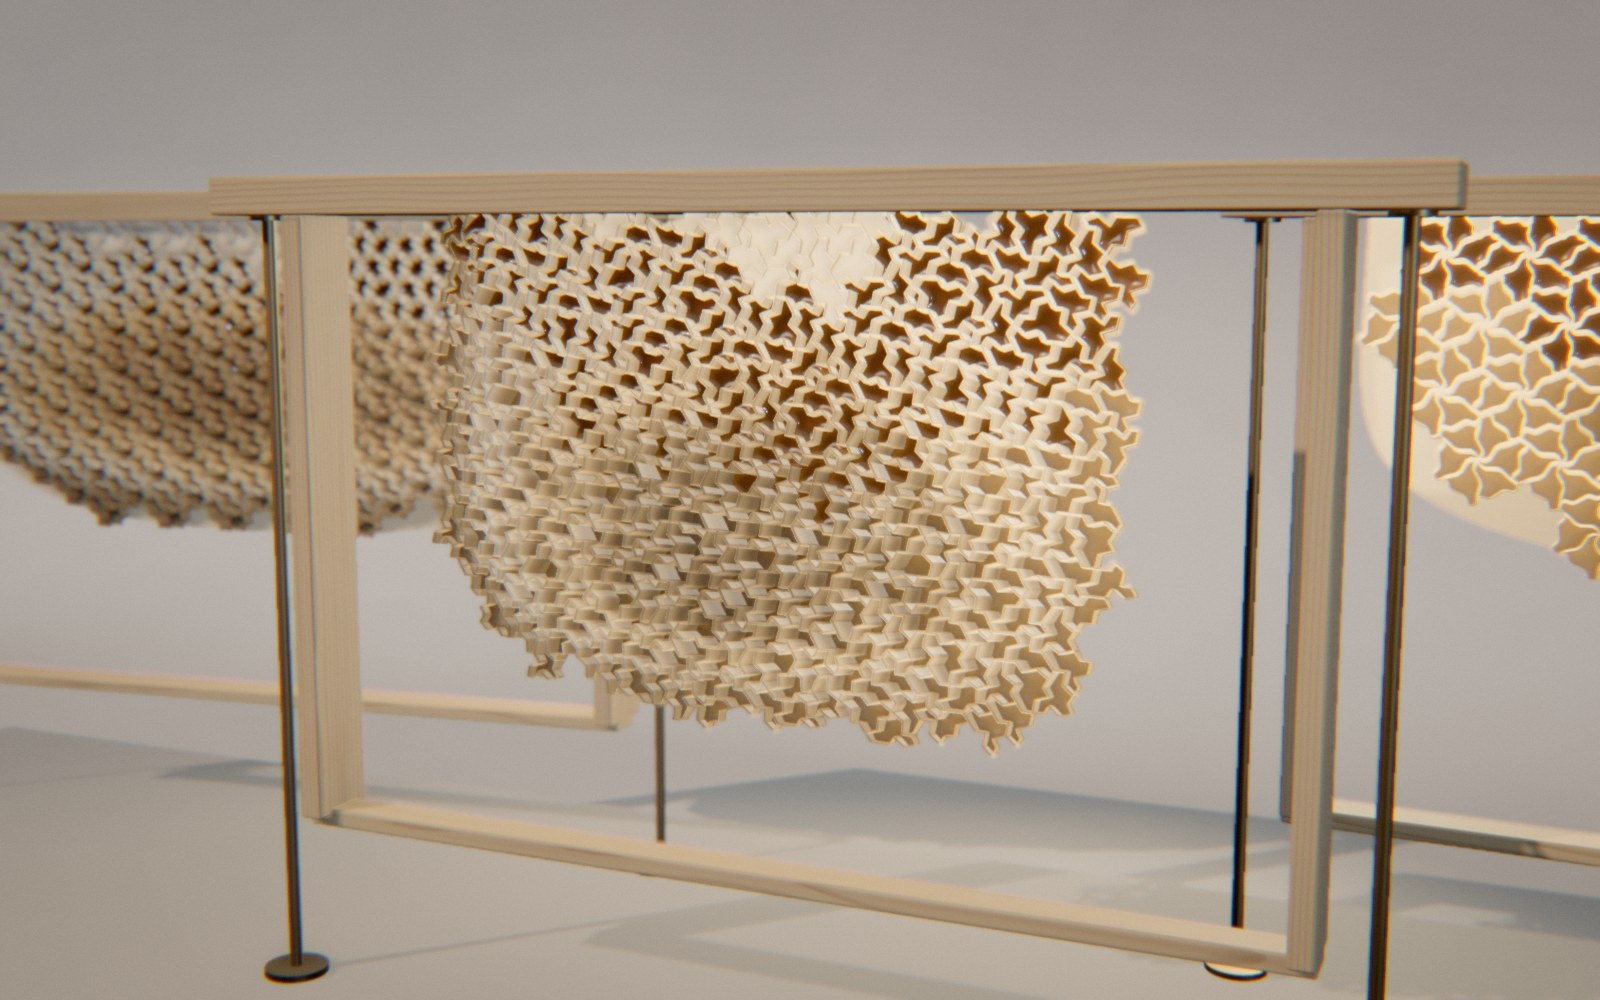
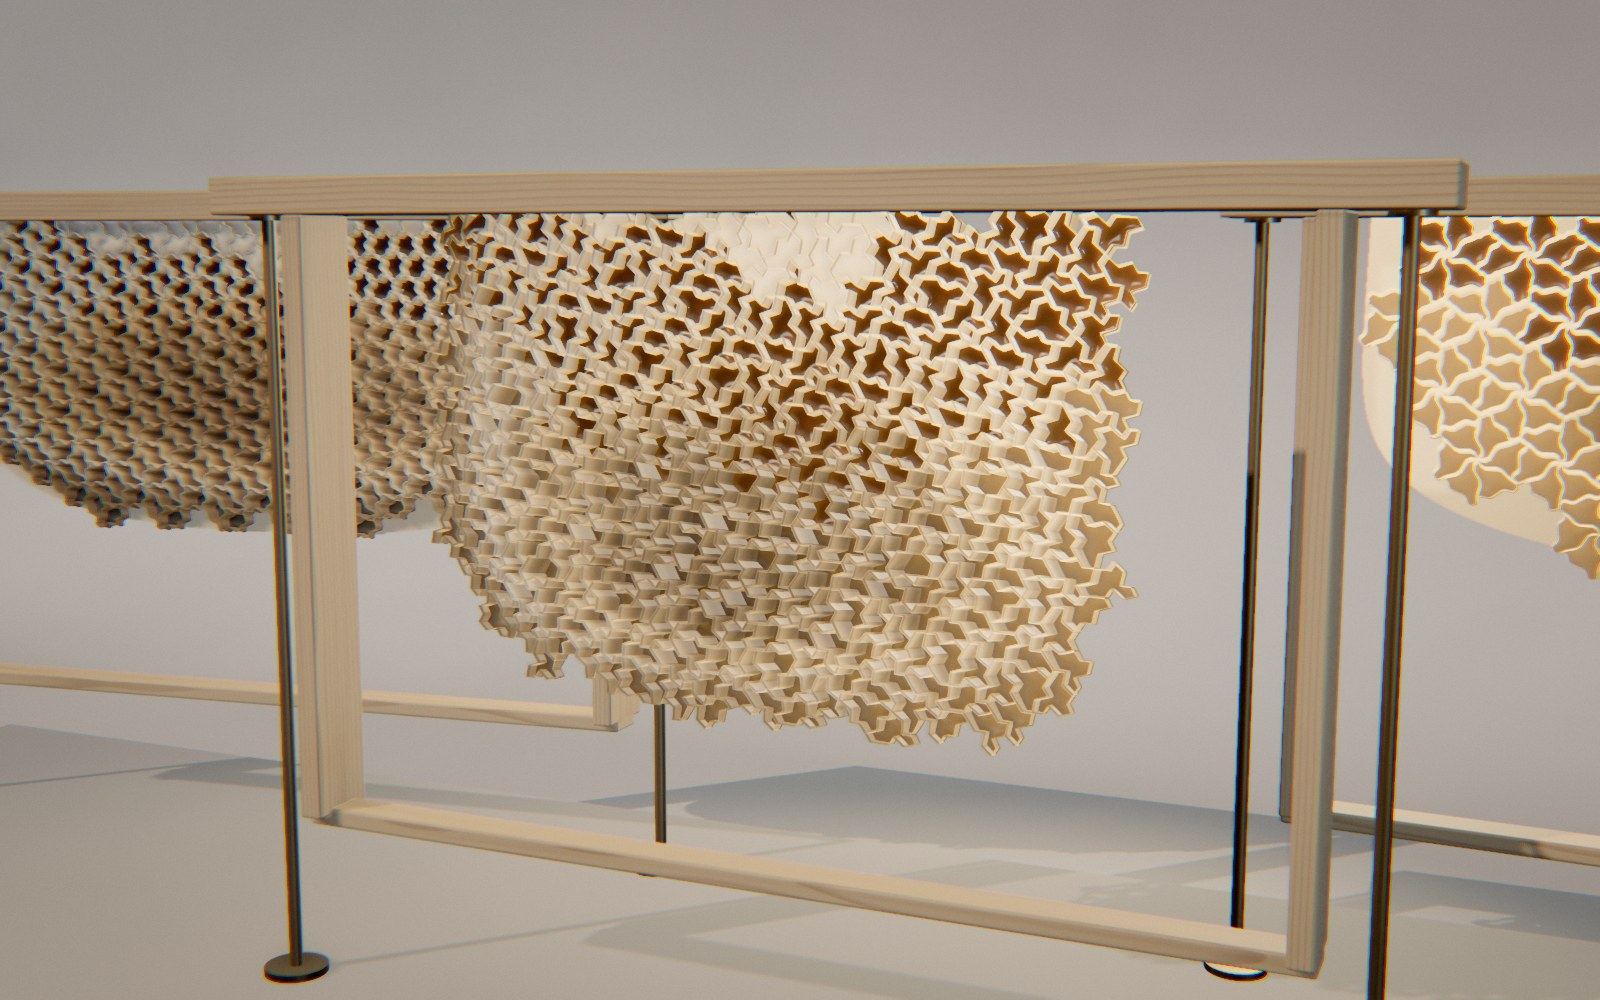
Hive : une image plus nette
La profondeur de champ n'a pas de zone franchement nette : elle floute en
proportion de l'écart au plan de mise au point, donc tout le rayon vu de
biais. Elle est coupée par défaut, et le flou de mouvement passe de 0,6 à
0,25. Contraste local mesuré sur le rayon : 5,8 → 6,8 ; image à
9,5–12,3 ms en 1080p. Capture et vignette refaites.

diff --git a/hive/src/app/settings.js b/hive/src/app/settings.js
@@ -6,9 +6,9 @@ export const QUALITY = {
   // (mode allégé : matériaux, lumières, ombres, chaîne d'image ; voir app/mobile.js)
   mobile: { label: 'Mobile', pixelRatio: 1.25, aa: 'fxaa', shadows: 'mobile', ao: false, ssr: false, motionBlur: 0 },
   draft: { label: 'Brouillon', pixelRatio: 1, aa: 'fxaa', shadows: 'low', ao: false, ssr: false, motionBlur: 0 },
-  standard: { label: 'Standard', pixelRatio: 1.25, aa: 'smaa', shadows: 'medium', ao: true, ssr: false, ssrRes: 0.5, ssrQuality: 0.35, motionBlur: 0.5 },
-  high: { label: 'Haute', pixelRatio: 1.5, aa: 'traa', shadows: 'high', ao: true, ssr: false, ssrRes: 0.5, ssrQuality: 0.5, motionBlur: 0.6 },
-  cinema: { label: 'Cinéma', pixelRatio: 2, aa: 'traa', shadows: 'ultra', ao: true, ssr: true, ssrRes: 1, ssrQuality: 0.8, motionBlur: 0.8 },
+  standard: { label: 'Standard', pixelRatio: 1.25, aa: 'smaa', shadows: 'medium', ao: true, ssr: false, ssrRes: 0.5, ssrQuality: 0.35, motionBlur: 0.2 },
+  high: { label: 'Haute', pixelRatio: 1.5, aa: 'traa', shadows: 'high', ao: true, ssr: false, ssrRes: 0.5, ssrQuality: 0.5, motionBlur: 0.25 },
+  cinema: { label: 'Cinéma', pixelRatio: 2, aa: 'traa', shadows: 'ultra', ao: true, ssr: true, ssrRes: 1, ssrQuality: 0.8, motionBlur: 0.35 },
 };
 
 export const RENDER_DEFAULTS = {
@@ -20,8 +20,8 @@ export const RENDER_DEFAULTS = {
   bloom: true, bloomStrength: 0.06, bloomRadius: 0.4, bloomThreshold: 1.6, hiCap: 4, roughFloor: 0.08,
   ao: true, aoStrength: 0.9, aoRadius: 0.4,
   ssr: false, ssrIntensity: 0.7, // (la cire est mate et le miel a son propre reflet : les reflets en espace écran coûtaient 5 ms pour rien) ssrQuality: 0.5, ssrDistance: 2.5, ssrThickness: 0.05, ssrRes: 0.5, ssrBlur: 2, nestEnv: 0.45, crystalThick: 1,
-  dof: true, focus: 1, focusRange: 0.32, bokeh: 2.2, // (le gros plan détache la langue de devant ; au large, tout reste net)
-  motionBlur: 0.6, ca: 0.1, grain: 0.03,
+  dof: false, focus: 1, focusRange: 0.32, bokeh: 2.2, // (coupée : elle n'a pas de zone franchement nette, et adoucit le rayon vu de biais ; réglable dans le panneau)
+  motionBlur: 0.25, ca: 0.1, grain: 0.03, // (un flou de mouvement léger : les alvéoles sont fines, un flou franc les noie pendant les déplacements)
   streaks: 0.08, streakLen: 4, halation: 0.25, dirt: 0.3,
   dynRes: false, maxFps: 0, // (résolution dynamique, cadence plafonnée : voir app/mobile.js)
 };
@@ -39,7 +39,7 @@ export const MOBILE_DEFAULTS = {
   dynRes: true, maxFps: 60,
 };
 
-const STORE = 'hive.render.v5'; // (changer de version quand un défaut change : les réglages mémorisés sont alors oubliés)
+const STORE = 'hive.render.v6'; // (changer de version quand un défaut change : les réglages mémorisés sont alors oubliés)
 
 // (le mode mobile a ses propres réglages mémorisés)
 export const defaultsFor = (lite) => (lite ? MOBILE_DEFAULTS : RENDER_DEFAULTS);

diff --git a/hive/explainer.html b/hive/explainer.html
@@ -143,8 +143,8 @@
             <tr><td>Vérification du chemin d’un pavage (96 instants)</td><td>recette</td><td class="num">quelques ms</td></tr>
             <tr><td>Cuisson d’un pavage (96 rangées, grille de 64², ménisque compris), mesurée dans Node</td><td>worker</td><td class="num">0,9 s</td></tr>
             <tr><td>Matériaux pour toutes les alvéoles des trois rayons</td><td>GPU</td><td class="num">3</td></tr>
-            <tr><td>Image en 1920 × 1080, qualité Haute, plan d’ensemble</td><td>GPU</td><td class="num">11,3 ms</td></tr>
-            <tr><td>Image au gros plan (le miel remplit l’image)</td><td>GPU</td><td class="num">14,3 ms</td></tr>
+            <tr><td>Image en 1920 × 1080, qualité Haute, plan d’ensemble</td><td>GPU</td><td class="num">9,5 ms</td></tr>
+            <tr><td>Image au gros plan (le miel remplit l’image)</td><td>GPU</td><td class="num">12,3 ms</td></tr>
           </tbody>
         </table></div>
       </section>

diff --git a/hive/README.md b/hive/README.md
@@ -95,7 +95,7 @@ P s'arrête à chaque porte (son temps est adouci par étape) : le rayon tient u
 
 **Cadres et supports** (`stage.js`). Un cadre a une barre du haut à oreilles, deux montants et une barre du bas, en bois à arêtes arrondies. Chaque barre est taillée dans un tronc qui lui est propre, dont l'axe suit à peu près sa longueur et passe près d'elle : les cernes sont des cylindres autour de cet axe, inégaux, sinueux, bois de printemps clair et bois d'été sombre. S'y ajoutent des fibres étirées le long du fil, qui s'effacent avant le pixel, et des taches ambrées de cire et de propolis. Chaque oreille repose sur la coupelle d'une tige de métal, chaque tige a son pied sur un socle commun. Les deux cadres du fond sont tournés de quelques degrés vers le centre ; le rayon et son cadre subissent le même cisaillement, dans le shader des alvéoles comme dans la matrice du cadre.
 
-**Décor et lumière** : un sol qui remonte en mur loin derrière (cyclorama), dont seul le sol reçoit les ombres. Trois lumières : une lampe parallèle chaude dont la carte d'ombres (4096²) est cadrée sur les cadres ; un remplissage froid sans ombre, du côté opposé ; un contre-jour qui traverse la cire. Plus un studio HDR calculé, faible. La profondeur de champ est active : zone nette large au plan d'ensemble, mince au gros plan.
+**Décor et lumière** : un sol qui remonte en mur loin derrière (cyclorama), dont seul le sol reçoit les ombres. Trois lumières : une lampe parallèle chaude dont la carte d'ombres (4096²) est cadrée sur les cadres ; un remplissage froid sans ombre, du côté opposé ; un contre-jour qui traverse la cire. Plus un studio HDR calculé, faible. La profondeur de champ est coupée par défaut (elle n'a pas de zone franchement nette et adoucissait le rayon vu de biais) et le flou de mouvement est léger ; les deux se règlent dans le panneau.
 
 **Caméra** (`core.js`) : un seul mouvement périodique, du plan d'ensemble (les trois cadres) au gros plan pris de biais sur la bande de miel du cadre de devant (à 2,5 à 3 unités, le rayon tient encore dans l'image), en échelle logarithmique, avec un glissement latéral ; par-dessus, la caméra tenue commune.
 
@@ -125,9 +125,9 @@ MacBook (Apple Silicon), Chrome, 1920 × 1080, qualité Haute, graine cw1gi9, 20
 
 | Instant | Temps par image |
 | --- | --- |
-| plan d'ensemble (u = 0,03) | 11,3 ms |
-| approche (u = 0,3) | 13,6 ms |
-| gros plan (u = 0,5) | 14,3 ms |
+| plan d'ensemble (u = 0,03) | 9,5 ms |
+| approche (u = 0,3) | 11,5 ms |
+| gros plan (u = 0,5) | 12,3 ms |
 
 Aucune pipeline n'est compilée après le chargement.
 
